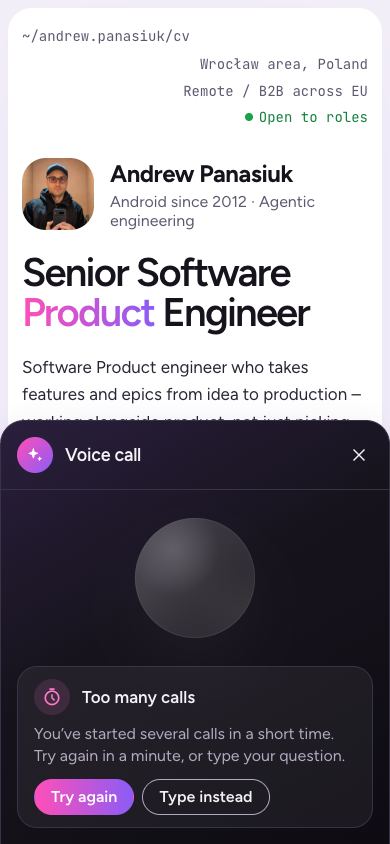
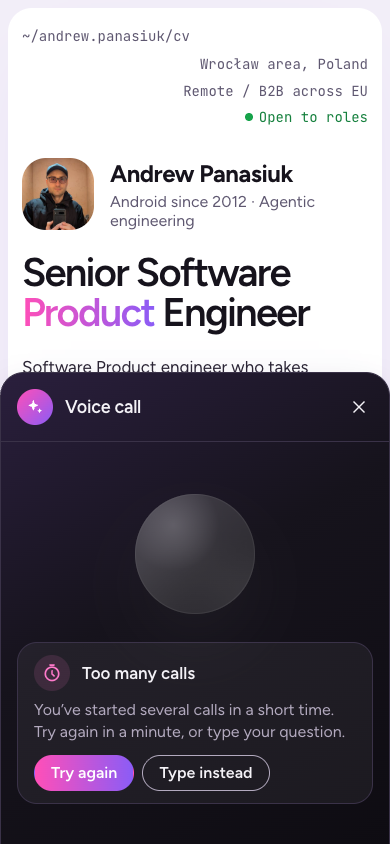
CV-181 Voice panel design: align with ADR-0009 (surfaces, dock tokens, sheet height, composer mic)
Claude-Session: https://claude.ai/code/session_01JbBYYLARydYuKBGBsvkEX8

Changed region(s): [[0.0615, 0.5853, 0.8615, 0.9858], [0.0, 0.4313, 1.0, 0.5853]]

diff --git a/docs/design/voice/mock.html b/docs/design/voice/mock.html
@@ -25,7 +25,9 @@
     <style>
       /* ---- Token changes proposed in SPEC → Tokens (the build task edits tokens.css) ---- */
       :root {
-        --voice-column-reserve: calc(var(--chat-panel-width) + var(--space-4));
+        --chat-dock-width: calc(var(--chat-panel-width) + var(--space-4));
+        --voice-sheet-height: calc(472px + env(safe-area-inset-bottom));
+        --voice-sheet-height-short: calc(272px + env(safe-area-inset-bottom));
         --voice-orb-size: 200px;
         --voice-orb-size-small: 120px;
         --voice-orb-size-mini: var(--chat-badge-size);
@@ -277,6 +279,9 @@
         background: transparent;
         border: 0;
         border-radius: 50%;
+      }
+      .icon-btn:disabled {
+        color: var(--color-ink-4);
       }
       .btn-secondary {
         flex: none;
@@ -791,11 +796,13 @@
           right: 0;
           bottom: 0;
           width: auto;
+          height: var(--voice-sheet-height);
           border-bottom: 0;
           border-radius: var(--radius-card) var(--radius-card) 0 0;
         }
         .column.chat-view {
           top: 0;
+          height: auto;
           border: 0;
           border-radius: 0;
           box-shadow: none;
@@ -804,14 +811,10 @@
           padding-left: var(--space-4);
         }
         .stage {
-          flex: none;
           padding-inline: var(--space-4);
         }
         .action {
           top: var(--space-2);
-        }
-        .tool .stage {
-          padding-top: var(--space-9);
         }
         .controls {
           padding: var(--space-2) var(--space-4) calc(var(--space-4) + env(safe-area-inset-bottom));
@@ -847,6 +850,7 @@
 
       const minimizeBtn = `<button type="button" class="icon-btn" aria-label="Minimize call" aria-expanded="true">${icon('minimize')}</button>`;
       const closeBtn = `<button type="button" class="icon-btn" aria-label="Close voice chat">${icon('close')}</button>`;
+      const minimizeOff = minimizeBtn.replace('aria-expanded="true"', 'aria-expanded="true" disabled');
       const callHeader = (sub, action = minimizeBtn) =>
         `<header class="header"><span class="badge" aria-hidden="true">${icon('sparkle')}</span><div class="titles"><h2 class="title">Voice call</h2>${sub}</div>${action}</header>`;
 
@@ -886,8 +890,8 @@
         connecting: () =>
           panel(
             'connecting',
-            callHeader(''),
-            `${orb()}<p class="status">Connecting…</p><p class="say visitor">Allow the microphone when your browser asks.</p><p class="privacy caption">Calls are processed by ElevenLabs. AI answers may contain mistakes.</p>`,
+            callHeader('', minimizeOff),
+            `${orb()}<p class="status">Connecting…</p><p class="say visitor">Allow the microphone when your browser asks.</p><p class="privacy caption">Calls run on ElevenLabs. Voice and text share one history. AI can make mistakes.</p>`,
             controls({ disabled: true }),
           ),
         listening: () =>
@@ -937,7 +941,7 @@
           `<aside class="column chat-view" aria-label="Ask about Andrew">
             <header class="header"><span class="badge" aria-hidden="true">${icon('sparkle')}</span><div class="titles"><h2 class="title">Ask about Andrew</h2><p class="caption">AI assistant · answers from this page</p></div>${closeBtn.replace('Close voice chat', 'Close chat')}</header>
             <ol class="list" aria-label="Conversation">${callLines}${assistant('SpotOn: a point-of-sale and kiosk app with strict offline rules.')}${divider('Call ended · 1:24')}</ol>
-            <div class="composer"><div class="field"><span>Ask a question…</span><button type="button" class="send" aria-label="Send" disabled>${icon('send')}</button></div><p class="caption">Answers are AI-generated and may contain mistakes.</p></div>
+            <div class="composer"><div class="field"><span>Ask a question…</span><button type="button" class="icon-btn" aria-label="Talk to my AI by voice">${icon('mic')}</button><button type="button" class="send" aria-label="Send" disabled>${icon('send')}</button></div><p class="caption">Answers are AI-generated and may contain mistakes.</p></div>
           </aside>`,
         minimized: () =>
           `<div class="callpill listening" role="group" aria-label="Voice call"><button type="button" class="expand" aria-label="Open the call panel" aria-expanded="false">${orb(true)}<span class="state">Listening</span><span class="time">0:42</span></button><button type="button" class="hang" aria-label="End call">${icon('end')}</button></div>`,

diff --git a/docs/design/voice/SPEC.md b/docs/design/voice/SPEC.md
@@ -1,6 +1,6 @@
 # Voice call panel — design package
 
-> **Look is v3** (`docs/design/v3/`; tokens in `src/theme/tokens.css`) on the chat's dark card (`src/shared/chat/ChatCard`). Project *Voice panel: call in the right column, one conversation* (P-CV-15), ticket CV-181. The call lives in the right column, where the text chat lives; the CV page shifts left and stays readable. Behaviour follows the architecture in `docs/voice/` (ADR-0008; the panel's state ownership and the shared history are the sibling architecture ticket's); this package is the look, copy, motion and accessibility on top of it.
+> **Look is v3** (`docs/design/v3/`; tokens in `src/theme/tokens.css`) on the chat's dark card (`src/shared/chat/ChatCard`). Project *Voice panel: call in the right column, one conversation* (P-CV-15), ticket CV-181. The call lives in the right column, where the text chat lives; the CV page shifts left and stays readable. Behaviour follows the architecture: ADR-0009 (the column, the dock, one conversation) and `docs/voice/SYSTEM_DESIGN.md` §4.2–4.3 (surfaces `closed | text | call | callChat | callPill`, dock `none | side | bottom`); this package is the look, copy, motion and accessibility on top of it.
 
 ## Source
 
@@ -35,7 +35,7 @@ The visitor taps the mic. The right column opens with the call: a big gradient o
 src/screens/chat/  (voice lives in the chat screen, docs/voice/SYSTEM_DESIGN.md §3)
 ├─ ChatLauncher row (unchanged: [hint] [VoiceMicButton] ["Ask my AI"])  hidden while the column or the pill shows
 ├─ the column (one place, one of two views)                              ← new placement
-│   ├─ view "call": VoicePanel  <aside>, ChatCard frame
+│   ├─ surface `call`: VoicePanel  <aside>, ChatCard frame
 │   │   ├─ VoicePanelHeader: ChatCardHeader (ChatBadge · "Voice call" / VoiceTimer · minimize | close)
 │   │   ├─ VoiceStage
 │   │   │   ├─ VoiceActionChip (tool ran; the chat's ActionChip look)
@@ -44,7 +44,7 @@ src/screens/chat/  (voice lives in the chat screen, docs/voice/SYSTEM_DESIGN.md 
 │   │   │   ├─ VoiceContactCard (the chat's ConfirmationCard look)
 │   │   │   └─ VoiceErrorCard
 │   │   └─ VoiceControls: Mute · Show chat · End
-│   └─ view "chat": ChatPanel (existing)
+│   └─ surfaces `text` / `callChat`: ChatPanel (existing)
 │       ├─ header: VoiceCallHeader while the call is live (mini VoiceOrb · "Voice call" / status · elapsed · Hide chat · minimize), else ChatHeader
 │       ├─ MessageList: the one conversation; the call between VoiceCallDivider ×2
 │       └─ VoiceCallBar while the call is live (Mute · note · End), else ChatComposer
@@ -57,13 +57,21 @@ Breakpoints are literal in media queries (CSS can't read tokens there), as the c
 
 | Zone | Query | The column | The page |
 |---|---|---|---|
-| **Wide** | `(min-width: 1024px) and (min-height: 500px)` | docked: `fixed`, `top/right/bottom: --space-4`, width `--chat-panel-width` (400), full height (768 at 800) | reserves it: the page wrapper (`main`) gets `padding-right: --voice-column-reserve` (416). The page card keeps its own `--page-margin` (24), so card → column gap = 24 |
+| **Wide** | `(min-width: 1024px) and (min-height: 500px)` | docked (dock `side`): `fixed`, `top/right/bottom: --space-4`, width `--chat-panel-width` (400), full height (768 at 800) | reserves it: the shell gives `main` `padding-inline-end: --chat-dock-width` (416 = column 400 + its right gutter 16). The page card keeps its own `--page-margin` (24), so card → column gap = 24 |
 | **Medium** | 600–1023 px wide | floats like today's chat card: `right/bottom: --space-4`, 400 × `min(--chat-panel-height, 100dvh − 32)` | not shifted (at 768 the page would be 352 wide) |
-| **Phone** | `(max-width: 599px), (max-height: 499px)` (the chat's query) | the call: bottom sheet; the chat: today's full-screen sheet | not shifted; gets `padding-bottom` = the sheet's height so its end can scroll above the sheet |
+| **Phone** | `(max-width: 599px), (max-height: 499px)` (`CHAT_SHEET_QUERY`) | the call: bottom sheet (dock `bottom`), **fixed height** `--voice-sheet-height`; the chat: today's full-screen sheet | not shifted; the shell gives `main` `padding-block-end` and the root `scroll-padding-bottom` of `--voice-sheet-height`, so the page's end and the agent's scroll targets land above the sheet |
 
 Width check, wide 1280: page card 24 → 840 (816 wide; content 740 inside `--page-padding-x` 38), gap 24, column 864 → 1264, 16 to the edge. At 1024 the card is 560 wide (content 498): still the v3 card, the grids reflow (`auto-fit`).
 
-The **column is one place**: on wide screens the page reserves it whenever it shows anything (the call or the chat, during or after a call). Closing the chat or minimizing the call gives the width back.
+The **column is one place**: on wide screens the page reserves it whenever it shows anything (surfaces `text`, `call`, `callChat`; ADR-0009 → Decision 3). Closing the chat (`closed`) or minimizing the call (`callPill`) gives the width back.
+
+| Surface | Wide | Medium | Phone |
+|---|---|---|---|
+| `closed` | launcher | launcher | launcher |
+| `text` | chat in the column | today's floating card | today's full-screen sheet |
+| `call` | call panel in the column (Layout 2) | call panel in the card's place | bottom sheet (Layout 5) |
+| `callChat` | chat in the column with the call header and call bar (Layout 3) | the same in the floating card | full-screen sheet, same header and bar |
+| `callPill` | the call pill (Layout 4) | the call pill | the call pill |
 
 ## Colours and effects
 
@@ -107,20 +115,22 @@ All sizes in CSS px; spacing is the v3 grid (`--space-*`).
 
 The launcher row, the mic button (48, gradient, sheen), its hover/pressed/focus states and the first-visit hint stay exactly as built (`VoiceMicButton`, `ChatLauncher`). Changes: the row **hides while the column or the call pill shows** and comes back when both are gone. At the monthly cap the mic stays; a tap opens the column straight into the monthly card.
 
-### 2. Call panel (view "call")
+**Mic in the composer** (new: the surface `text` can start a call, and the launcher is hidden while the chat is open). It fills the composer's existing `voiceSlot`, inside the field between the textarea and Send, gap 8 (the place the chat package reserved): the chat's `iconButton` (44, transparent, `chat_icon_mic` 20 in `--color-dark-ink`, hover `--chat-fill-hover`), `aria-label` = `micLabel`. Only when voice is enabled (the flag, a bound voice client). Tap → `call` in the same column. The textarea gives up 52 px (still ≥ 250 at 400). Rendered in `voice_state_ended_*`.
+
+### 2. Call panel (surface `call`)
 
 `<aside>` in the `ChatCard` frame, column flex: header / stage (flex 1) / controls.
 
 **Header** = `ChatCardHeader` (padding `12 8 12 20`, gap 12, bottom hairline `--color-dark-line`; 67 high): `ChatBadge` 36 · titles · one action.
 - Title "Voice call".
 - Subtitle = **the timer** (from the first `live`): a 14 px progress ring (`--chat-action-icon-size`; r 5.5, stroke 2, track `--color-dark-line`, progress `--color-dark-ink`, round cap, from 12 o'clock clockwise over 3:00), gap 6, `0:42` (500, `--color-dark-ink`) + ` / 3:00` (`--chat-ink-2`). **Last 30 s**: `0:24 left`, text and ring `--color-dark-number`. While connecting and in errors: no subtitle (the title centres).
-- Action: **minimize** (44 icon button, `voice_icon_minimize.svg`, the chat's `iconButton`). In errors it is **close** (`chat_icon_close`): there is no call to keep.
+- Action: **minimize** (44 icon button, `voice_icon_minimize.svg`, the chat's `iconButton`). **Disabled while connecting** (icon `--color-ink-4`): a pill without a timer would say nothing, and a start error needs the panel. In errors it is **close** (`chat_icon_close`): there is no call to keep.
 
 **Stage**: column, centred both ways, padding `16 24`, `text-align: center`. Its content:
 - **Orb** `--voice-orb-size` **200**, `margin-block: orb × .1` (room for the level scale), the full-screen design's layers and motion unchanged (glow, body + swirl + shimmer, shade; see Motion). The glow (`inset −22 %`, blur 24) spills onto the dark card; the card's `overflow: hidden` clips it at the edges.
 - **Status label** 12 below: mono 12.5 `--color-dark-number` ("Listening", "Speaking", "Mic off", "Connecting…").
 - **Caption** 12 below, the stage's content width (352), clamped to `--voice-caption-lines` (**3**) lines, and **3 lines are reserved** (`min-height`), so the orb doesn't move when the line wraps. The agent's line in `--color-dark-ink`, the visitor's in `--chat-ink-2`. It shows the latest final line; a `correction` replaces it in place.
-- **Privacy line** (connecting only) 12 below the caption: caption style, "Calls are processed by ElevenLabs. AI answers may contain mistakes."
+- **Privacy line** (connecting only) 12 below the caption: caption style, "Calls run on ElevenLabs. Voice and text share one history. AI can make mistakes." (ADR-0009 → Consequences: the earlier chat goes to ElevenLabs, the call's lines go to the text model; two lines on a phone).
 - **Action chip** (tool ran): absolutely positioned, centred, 16 from the stage top, so nothing moves. The chat's `ActionChip` look (mono caption, hairline pill, ✦ 14 `--color-dark-number`): `Showing Transcenda…` → `Showing Transcenda`; it stays until the agent's turn ends, at least `--agent-highlight-duration` (3 s).
 - Vertical budget at 1280 × 800: column 768 = header 67 + stage 603 + controls 96 (+ 2 border). Content 240 (orb box) + 28 (label) + 12 + 97 (3 caption lines) = 377, centred: the orb's centre sits at y ≈ 314 (40 % of the viewport).
 
@@ -131,15 +141,16 @@ The launcher row, the mic button (48, gradient, sheen), its hover/pressed/focus 
 - Focus-visible on all: the chat's ring (2 px `--color-dark-number`, offset 2).
 - Width check: 56 + 12 + 146 + 12 + 99 = 325 ≤ 352 (column) and ≤ 358 (phone).
 
-### 3. Chat open during the call (view "chat")
+### 3. Chat open during the call (surface `callChat`)
 
 "Show chat" swaps the column's content to the existing `ChatPanel` (same frame, same place), scrolled to the end. The conversation is **one**: earlier text exchanges, then the call's opening divider ("Voice call", mic icon), then every final line of the call as ordinary rows (visitor = lilac bubble, agent = outlined bubble, tool runs = action chips under the line), appended as they arrive.
 
 - **Header** (`VoiceCallHeader`, the `ChatCardHeader` anatomy): the **mini orb** (`--voice-orb-size-mini` = 36, in the badge's slot; live, no glow) · title "Voice call" / subtitle `Speaking · 1:12` (status in `--color-dark-number`, elapsed 500 `--color-dark-ink`; last 30 s: `0:24 left` in pink) · **Hide chat** (the chat's secondary button, 36 high) · minimize (44). Width: 20 + 36 + 12 + titles 148 + 12 + 105 + 12 + 44 + 8 = 397 ≤ 400 (the subtitle never exceeds "Connecting…" + time ≈ 140).
 - **Call bar** replaces the composer while the call is live (same top hairline, padding `12 20 16`, gap 12, items centred): **Mute** (44 circle, the Mute style above at 44, icon 20) · note (caption, flex 1, two lines at 400): "Read-only during the call. End it to type." · **End** (the End style at 44 high, icon 20).
-- **Hide chat** returns to the call view. The message list keeps its scroll position for the next "Show chat".
+- **Hide chat** returns to `call`. The message list keeps its scroll position for the next "Show chat".
+- **Typing** (architecture rule: the visitor's first move to type ends the call): the call bar has no field to type in, so **End** is that move. End here lands in `text` with the composer focused whenever the call has a line (otherwise the surface returns to where the call started).
 - The orb view's caption is not repeated here: the newest row is the caption.
-- When the call ends with the chat view showing, the bar turns back into the composer (focus moves to it), the header back into `ChatHeader`, and the closing divider appears (Layout 7). No card: the divider says what happened ("Call dropped · 1:10", "Call ended at the 3-minute limit").
+- When the call ends in `callChat` (the surface becomes `text`), the bar turns back into the composer (focus moves to it), the header back into `ChatHeader`, and the closing divider appears (Layout 7). No card: the divider says what happened ("Call dropped · 1:10", "Call ended at the 3-minute limit").
 
 ### 4. Minimized: the call pill
 
@@ -149,15 +160,17 @@ Minimize (from either view) folds the column into **the call pill** in the launc
 - **Expand** (one `<button>`, the pill's main part): mini orb 36 · gap 10 · status (16 / 600 ink: "Listening", "Speaking", "Mic off") · gap 10 · elapsed (mono 14 `--color-ink-3`; last 30 s: `0:24 left` in `--color-accent-pink`). Hover: status `--color-accent` (as the pill). Tap → the column opens again in the view it had.
 - **End**: 36 circle (`--voice-pill-end-size`), `--color-ink` fill, `chat_icon_end` 20 white. Hover `--color-ink-2`.
 - Width: 6 + 36 + 10 + 74 + 10 + 36 + 8 + 36 + 6 ≈ 222 (desktop 212 rendered). Phone: same, right-aligned, + safe-area bottom.
-- **Ends while minimized** (agent hangs up, 3:00, drop): the pill shows the closing divider's text in place of status + time ("Call ended · 1:24", "Call dropped · 1:10"), the orb goes grey (the error orb), the End circle hides; after `--voice-ended-pill-duration` (4 s) the pill leaves and the launcher returns. Tapping it in those 4 s opens the chat with the transcript. Minimized while **connecting**, the pill shows "Connecting…" and no time; a start error expands the panel to its card (it needs an answer).
+- **Ends while minimized** (agent hangs up, 3:00, drop): the pill shows the closing divider's text in place of status + time ("Call ended · 1:24", "Call dropped · 1:10"), the orb goes grey (the error orb), the End circle hides; after `--voice-ended-pill-duration` (4 s) the pill leaves and the launcher returns. Tapping it in those 4 s opens the chat with the transcript; otherwise the surface is `closed` and the transcript is in the chat the next time it opens (the pill never pops the column open). Minimize is disabled while connecting, so the pill always has a time.
 
 ### 5. Phone (≤ 599 px wide or ≤ 499 px tall)
 
-- **Call**: a **bottom sheet** (the `ChatCard` frame with `border-radius: 24 24 0 0`, no bottom border), `left/right/bottom: 0`, height by content, over the page (no backdrop, no scroll lock: the page scrolls above it). Inside: the same header (padding-left 16), stage (padding `16 16`; orb `--voice-orb-size-small` **120**; caption **2** lines, reserved), controls (padding `8 16 16 + safe-bottom`). Height ≈ 420 + safe-bottom (≈ 454 on an iPhone 14). The page gets `padding-bottom` = that height (measured; `ResizeObserver`), so its end can be scrolled above the sheet. Tools scroll the target to `--agent-scroll-margin-top` (24) from the top, which is above the sheet.
-- **Tool**: the action chip sits 8 from the stage top and the stage gets 48 top padding while it shows.
-- **Chat during the call**: today's full-screen chat sheet with the call header and the call bar (Layout 3). Hide chat → back to the bottom sheet.
-- **Minimized**: the call pill (Layout 4), bottom-right.
-- **Short** (≤ 499 px tall: landscape phones, 200 % zoom): the stage drops the big orb; the header's badge slot shows the mini orb instead, and the caption keeps 2 lines. The sheet is then ≈ 260 high.
+- **Call**: a **bottom sheet** (the `ChatCard` frame with `border-radius: 24 24 0 0`, no bottom border), `left/right/bottom: 0`, **height `--voice-sheet-height`** (`472px + safe-area-inset-bottom`; 506 on an iPhone 14, 60 % of 844), over the page (no backdrop, no scroll lock: the page scrolls above it). The height is fixed so the shell can reserve it from a token (no measuring). Inside: the same header (padding-left 16), stage (flex 1, centred, padding `16 16`; orb `--voice-orb-size-small` **120**; caption **2** lines, reserved), controls (padding `8 16 16 + safe-bottom`).
+- Budget (stage 324): connecting is the tallest: orb box 144 + label 28 + caption 12 + 53 + privacy 12 + 36 = 285 ≤ 292 (inside the padding). Error cards (no controls row) fit with room to spare.
+- **Tool**: the action chip sits 8 from the stage top (it ends at 34; the orb's body starts at ≈ 55).
+- **Chat during the call** (`callChat`): today's full-screen chat sheet with the call header and the call bar (Layout 3). It covers the page, so a visual tool (scroll, highlight) returns the surface to `call` (as the text sheet closes for a visual action today). Hide chat → back to the bottom sheet.
+- **Back** (system): from `callChat` → `call`; from `call` → `callPill` (the call goes on); each sheet owns one history entry (`useChatHistoryEntry`).
+- **Minimized**: the call pill (Layout 4), bottom-right, + safe-area bottom.
+- **Short** (≤ 499 px tall: landscape phones, 200 % zoom): the stage drops the big orb; the header's badge slot shows the mini orb instead, and the caption keeps 2 lines. The sheet is `--voice-sheet-height-short` (`272px + safe-bottom`); the shell uses it under `(max-height: 499px)`.
 
 ### 6. Opening a contact (openContact)
 
@@ -165,11 +178,11 @@ As before (`docs/voice/SYSTEM_DESIGN.md` §7): the agent asks out loud, calls `o
 - The orb shrinks to `--voice-orb-size-small` (120) and keeps its mode; the card replaces status + caption, 16 below the orb. Controls stay (the call goes on).
 - Card = the chat's `ConfirmationCard`: `--chat-notice-bg`, 1 px `--color-dark-line`, `--radius-tile`, padding `12 16`, gap 8, left-aligned, full stage width. Title (17 / 24 600): `confirmWhatsapp` "Open a WhatsApp chat with Andrew?" (`confirmEmail`, `confirmLinkedin`), from the CV data. Detail (caption): the contact from `CvPage` (`wa.me/48519457129`). Buttons: **"Open WhatsApp"** (`voiceOpenContact`) = a real link (`<a target="_blank" rel="noopener noreferrer">`) in the Confirm style (gradient) + **Cancel** (secondary). Hint (caption): "Your browser needs a tap to open it."
 - Open → opens, the card leaves, the agent hears `ok`. Cancel or **30 s** without a tap → `declined`, the chip shows `actionDeclined`.
-- In the chat view the same card is not shown; the panel switches to the call view when a contact card appears (the tap has to be possible). Minimized: the pill expands.
+- In `callChat` the same card is not shown; the surface switches to `call` when a contact card appears (the tap has to be possible). From `callPill` too.
 
 ### 7. Ended: the transcript in the chat
 
-- **End** (panel, call bar or pill) ends the call. With at least one line: the column **switches to the chat view** (or stays there) with the transcript, the normal header and composer; focus goes to the textarea. With no lines (cancelled while connecting): the column closes, the page gets its width back, focus returns to the mic.
+- **End** (panel or call bar) ends the call. With at least one line: the surface becomes `text`: the column shows the chat with the transcript, the normal header and composer; focus goes to the textarea. With no lines (cancelled while connecting): back to where the call started (`closed` or `text`); on `closed` the page gets its width back and focus returns to the mic. End on the pill: `closed` (Layout 4).
 - The call is one entry between two **call dividers** (`VoiceCallDivider`, unchanged: two `--color-dark-line` hairlines around a mono caption; start: mic 14 `--color-dark-number` + "Voice call"; end, by `endReason`: "Call ended · 1:24", "Call ended at the 3-minute limit", "Call dropped · 1:10"). A call with no lines still shows both dividers.
 - The contact card's outcome is the chat's usual chip (`Opened WhatsApp` / `Cancelled`).
 - After the call the chat is the normal text chat, still in the column (the page stays shifted until it is closed). The next question goes to `/api/chat` with the call's lines in its history (the architecture ticket's contract).
@@ -194,8 +207,8 @@ Same panel. The header's action is **close**; no timer; no controls row. The sta
 | Offline (at start) | `offline` | You’re offline | Connect to the internet to talk to the AI. | Try again | Close |
 
 - **Which card** (unchanged mapping): `getUserMedia` denied → blocked; `navigator.onLine` false at the tap → offline; `429 rate_limited` → too many calls; `503 quota_exhausted` → monthly; `503 unavailable`, `502`, `500`, other 4xx, platform errors → couldn't start; `400 unsupported_version` → updated; `start()` rejects after a token → busy; `ended: error` after live → dropped; `ended: time_limit` → 3-minute limit; `ended: visitor` / `agent` → no card (Layout 7).
-- "Type instead" / "Open chat" switch the column to the chat view (writable: no call). "Close" closes the column. Going offline mid-call ends it as *dropped*.
-- Mid-call errors (dropped, 3:00) show the card only in the call view; in the chat view the closing divider tells it (Layout 3), minimized the pill does (Layout 4).
+- "Type instead" / "Open chat" switch the surface to `text` (writable: no call). "Close" → where the call started (`closed` or `text`). Going offline mid-call ends it as *dropped*.
+- Mid-call errors (dropped, 3:00) show the card only in `call`; in `callChat` the closing divider tells it (Layout 3), in `callPill` the pill does (Layout 4). Once the visitor leaves a mid-call card (Open chat, ×, Esc), the surface becomes `text`, since the call had lines; "Call again" starts a new call in place.
 - No render for "Voice was updated": same card, alert glyph.
 
 ## Motion
@@ -207,7 +220,7 @@ Easing `--chat-motion-easing` unless stated. Animate only `transform`, `opacity`
 | Column opens (wide) | the page **reflows at once** to its reserved width (no animated width), keeping the section at the top of the viewport where it was (scroll anchoring: note it before, restore its offset after); the column `translateX(--space-6) → 0` + fade | `--chat-motion-duration` 200 ms |
 | Column closes | reverse; the page reflows when the column has gone | `--chat-motion-exit-duration` 150 ms |
 | Medium card / phone sheet in, out | today's `panel-in` / `sheet-in` (`translateY(8 / 24)` + fade) and their exits | 200 / 150 ms |
-| Call ⇄ chat view | crossfade inside the frame (outgoing 150 ms, incoming 200 ms); the frame doesn't move | 150 / 200 ms |
+| `call` ⇄ `callChat` | crossfade inside the frame (outgoing 150 ms, incoming 200 ms); the frame doesn't move | 150 / 200 ms |
 | Minimize | the column scales to `.92` toward bottom-right + fades; then the pill `scale(.9) → 1` + fades in; the page reflows to full width with the pill | 150 + 200 ms |
 | Expand | reverse | 150 + 200 ms |
 | Orb: level → scale, glow | `transition` on the values; listening `× .12`, speaking `× .2`, mini orb `× .08` | `--voice-level-smoothing` 100 ms linear |
@@ -230,13 +243,14 @@ Keys in the **chat** namespace (`src/screens/chat/strings.ts`), prefixed `voice`
 |---|---|---|
 | `panelLabel` (aria-label) | Voice call with Andrew’s AI | new; replaces `dialogLabel` |
 | `title` | Voice call | was "Voice chat" (one name with the divider) |
+| `privacy` | Calls run on ElevenLabs. Voice and text share one history. AI can make mistakes. | changed: says the conversation is shared (ADR-0009 → Consequences) |
 | `showChat` | Show chat | new; replaces `toChat` |
 | `hideChat` | Hide chat | new |
 | `minimize` (aria-label) | Minimize call | new |
 | `expand` (aria-label) | Open the call panel | new (the pill's main button; its visible status and time are read too) |
 | `readOnly` | Read-only during the call. End it to type. | new (call bar note) |
 
-**Kept as built**: `micLabel`, `connecting`, `allowMic`, `privacy`, `listening`, `speaking`, `micOff`, `mutedCaption`, `connected`, `mute` / `unmute`, `end` / `endLabel`, `timer`, `timerLeft`, `timerLabel`, `warning`, `openContact`, `tapNeeded`, `callStarted` (also the pill's group label), `callEnded` / `callEndedLimit` / `callDropped`, `ended`, `close`, `tryAgain`, `callAgain`, `typeInstead`, `openChat`, `closeButton`, `reload`, and every error title/body (table in Layout 8).
+**Kept as built**: `micLabel`, `connecting`, `allowMic`, `listening`, `speaking`, `micOff`, `mutedCaption`, `connected`, `mute` / `unmute`, `end` / `endLabel`, `timer`, `timerLeft`, `timerLabel`, `warning`, `openContact`, `tapNeeded`, `callStarted` (also the pill's group label), `callEnded` / `callEndedLimit` / `callDropped`, `ended`, `close`, `tryAgain`, `callAgain`, `typeInstead`, `openChat`, `closeButton`, `reload`, and every error title/body (table in Layout 8).
 
 **Removed**: `dialogLabel`, `toChat`.
 
@@ -254,13 +268,13 @@ Tinted in code with `ChatIcon` (mask over `currentColor`), 24 × 24 viewBox, 2 p
 
 ## States and behaviour
 
-1. **Start**: mic tap → the column opens at once in **connecting** (no wait for the network), the launcher hides. Offline → the offline card. Otherwise `requestMicrophone()`; the caption is `allowMic` while the prompt is pending, then empty. Then the session request and `start()`; errors → their card. Mute is disabled; End cancels; Show chat works (the chat shows the earlier text lines and the opening divider).
+1. **Start**: a mic tap (the launcher's, from `closed`; the composer's, from `text`) → surface `call` at once in **connecting** (no wait for the network), the launcher hides. Offline → the offline card. Otherwise `requestMicrophone()`; the caption is `allowMic` while the prompt is pending, then empty. Then the session request and `start()`; errors → their card. Mute is disabled; End cancels; Show chat works (the chat shows the earlier text lines and the opening divider).
 2. **Live** → the agent's first message (**speaking**), then **listening**; the timer starts; `connected` is announced.
 3. **Listening / speaking** follow the `mode` events; the orb's level comes from `levels()`.
 4. **Muted**: the mic track is disabled; "Mic off", `mutedCaption`, the orb desaturated.
 5. **Tool**: the page is visible, so the agent's scroll and highlight are seen directly; the panel shows the action chip. **openContact**: Layout 6.
 6. **2:30** → the timer turns pink and counts down (header, chat header and pill); `warning` is announced once; the agent gets its wrap-up update (orchestrator decision 3 of CV-147). **3:00** → hard stop → the call cap card (or divider / pill text).
-7. **End** → Layout 7. **Esc** inside the panel → **minimize** (never ends the call: Esc is too easy to press). In errors Esc = close.
+7. **End** → Layout 7. **Esc** inside the panel or the call bar → **minimize** (never ends the call: Esc is too easy to press). In errors Esc = close; while connecting Esc does nothing (minimize is disabled).
 8. **One call at a time.** While the call is live the chat can't send (the call bar replaces the composer). The launcher is hidden; the call pill takes its place when minimized.
 9. **The page stays live**: no scroll lock, no backdrop; links and buttons on the page work during the call. The agent's tools scroll it as before.
 10. **Show case** (`?retro=1` or its button) during a call: out of scope; the show sits above (`z-index` 1001) as today.
@@ -295,7 +309,7 @@ In `src/screens/chat/testIds.ts`, values prefixed `chat-voice-`.
 
 - **New**: `chat-voice-panel` (replaces `chat-voice-mode`), `chat-voice-show-chat` (replaces `chat-voice-to-chat`), `chat-voice-hide-chat`, `chat-voice-minimize`, `chat-voice-pill`, `chat-voice-pill-expand`, `chat-voice-pill-end`, `chat-voice-callbar`, `chat-voice-callbar-end`, `chat-voice-callbar-mute`.
 - **Kept**: `chat-voice-mic`, `chat-voice-orb`, `chat-voice-status`, `chat-voice-caption`, `chat-voice-timer`, `chat-voice-mute`, `chat-voice-end`, `chat-voice-action`, `chat-voice-contact`, `chat-voice-contact-open`, `chat-voice-contact-cancel`, `chat-voice-error` (+ `data-error`), `chat-voice-error-primary`, `chat-voice-error-secondary`, `chat-voice-close`, `chat-voice-divider`.
-- The panel root carries `data-phase="connecting|listening|speaking|tool|contact|error"`, `data-muted`, and the column `data-view="call|chat"`; the pill `data-phase` too.
+- The panel root carries `data-phase="connecting|listening|speaking|tool|contact|error"`, `data-muted`, and the chat root `data-surface="closed|text|call|callChat|callPill"`; the pill `data-phase` too.
 
 ## Tokens
 
@@ -303,7 +317,9 @@ The build task edits `src/theme/tokens.css`; the mock declares the new and renam
 
 ```css
 /* Voice call panel (docs/design/voice/SPEC.md) */
---voice-column-reserve: calc(var(--chat-panel-width) + var(--space-4)); /* new: page padding-right */
+--chat-dock-width: calc(var(--chat-panel-width) + var(--space-4)); /* new: what the page gives up (dock side) */
+--voice-sheet-height: calc(472px + env(safe-area-inset-bottom));      /* new: the phone call sheet (dock bottom) */
+--voice-sheet-height-short: calc(272px + env(safe-area-inset-bottom)); /* new: the same at <= 499 px tall */
 --voice-orb-size: 200px;                       /* was clamp(160px, 44vw, 200px) */
 --voice-orb-size-small: 120px;                 /* renamed from --voice-orb-size-error */
 --voice-orb-size-mini: var(--chat-badge-size); /* new: chat header, pill */
@@ -327,7 +343,7 @@ The build task edits `src/theme/tokens.css`; the mock declares the new and renam
 
 ## Data and state
 
-From the state holder (`useVoiceCall`, extended by the architecture ticket): `phase`, `permission`, `muted`, `elapsedSec` / `maxCallSeconds`, the latest line, the running action, the pending contact card, the error kind, and the end reason. New UI state: the column's **view** (`call | chat`), **minimized** (boolean), and whether the column is open; who owns them (and the page reserve on `main`) is the architecture ticket's call. The level is not state (`--voice-level` per frame). The chat's rows come from the one conversation (text + call lines).
+From `useVoiceCall`: `phase`, `permission`, `muted`, `elapsedSec` / `maxCallSeconds`, the latest line, the running action, the pending contact card, the error kind, and the end reason. From `useChatState`: the **surface** (`closed | text | call | callChat | callPill`) and the derived **dock** reported to the shell (`docs/voice/SYSTEM_DESIGN.md` §4.2–4.3). The level is not state (`--voice-level` per frame). The chat's rows come from the one conversation (text + call lines).
 
 ## Decisions
 
@@ -335,25 +351,26 @@ Conservative defaults; the orchestrator may change them.
 
 1. **The call panel is the chat's dark card**, not the light page style of the old voice mode: the column holds both views, so one frame and one header anatomy; the orb glows better on dark.
 2. **The column is full height on wide screens** (top 16 → bottom 16), not today's 600 px card: a docked column, so the page's shift reads as intended. The text chat docked there is full height too.
-3. **The page reserves the column whenever it is open**, the text chat included (also with no call): otherwise the page would jump back under the chat when a call ends. This changes the text chat on wide screens (it no longer covers the page).
-4. **Wide = ≥ 1024 px** (and ≥ 500 px tall). Between 600 and 1023 the panel floats like today's chat card and the page doesn't shift (it would be under 600 px wide).
+3. **The page reserves the column whenever it is open**, the text chat included (also with no call): otherwise the page would jump back under the chat when a call ends. This changes the text chat on wide screens (it no longer covers the page). Same as ADR-0009 → Decision 3.
+4. **Wide = ≥ 1024 px** (and ≥ 500 px tall). Between 600 and 1023 the panel floats like today's chat card and the page doesn't shift (it would be under 600 px wide). Same as ADR-0009.
 5. **Mid-call chat: the composer is replaced by a call bar** (Mute · "Read-only during the call. End it to type." · End), not a disabled field: no accidental key ends the call, and the way to type is explicit.
 6. **Compact orb at the top** of the chat (in the header's badge slot, 36 px), with Hide chat and minimize; End lives in the bottom bar in both views.
 7. **Minimized: the page returns to full width**; the pill sits in the launcher's place and the launcher hides.
 8. **The pill has its own End** (36 circle), so hanging up doesn't need an expand first.
 9. **Esc minimizes**, never ends the call; the panel is not modal.
-10. **Errors show a card only in the call view**; in the chat view and in the pill the end divider's text tells it.
-11. **Phone call sheet is non-modal and content-high (≈ 420 + safe area)**; the page gets bottom padding to scroll past it. The chat during a call is today's full-screen sheet.
+10. **Errors show a card only in `call`**; in `callChat` and in the pill the end divider's text tells it.
+11. **Phone call sheet is non-modal**, 472 + safe area high; the shell pads the page by that much so it scrolls past it. The chat during a call is today's full-screen sheet.
 12. **Show chat is a labelled pill**, not an icon: it's the feature's main idea (one conversation) and must be found.
 13. **End is the white control** on the dark card (the inverse of the old ink End on the light page), not red: v3 has no red for actions, and the label + icon say it.
 14. **Page reflow is instant** (no animated width), with scroll anchoring; only the column animates.
 15. **Backdrops are production screenshots**, taken with the real page reflowed to the column's width.
+16. **A mic in the composer** (the `voiceSlot` the chat package reserved), so a call can start from the open chat (surface `text`); this replaces CV-147's "no mic in the composer", which assumed the launcher stayed reachable.
+17. **The phone sheet has a fixed height** (472 + safe area) so the shell reserves it from a token; the privacy line is shortened to two lines on a phone to fit.
 
 ## Open questions
 
-Each has the default above; for the orchestrator, the architecture ticket (CV-180) or the human.
+Each has the default above; for the orchestrator or the human. ADR-0009 → Decision 3 already settled the text chat's dock and the medium widths, and `docs/voice/SYSTEM_DESIGN.md` §4.3 the reserved sheet height (a token).
 
-1. **Text chat in the column without a call** (Decision 3): should the plain text chat also dock and shift the page on wide screens, or only during/after a call? Default: always (one rule, no jump at call end).
-2. **Docked chat height** (Decision 2): full column height on wide screens instead of 600. Default: full height.
-3. **Medium widths** (Decision 4): float without shifting, or use the phone sheet? Default: float.
-4. **The phone sheet's page padding** needs the sheet height measured; is a `ResizeObserver` on the sheet acceptable to the architecture, or should the page get a fixed `--voice-sheet-height`? Default: measured.
+1. **Docked chat height** (Decision 2): full column height on wide screens instead of today's 600. Default: full height.
+2. **Privacy line** (Layout 2): "Calls run on ElevenLabs. Voice and text share one history. AI can make mistakes." Does it say enough about the earlier chat going to ElevenLabs and the call going to the text model? Default: this text.
+3. **Mic in the composer** (Decision 16): fine to fill the reserved `voiceSlot` now? Default: yes, only with the voice flag on.
